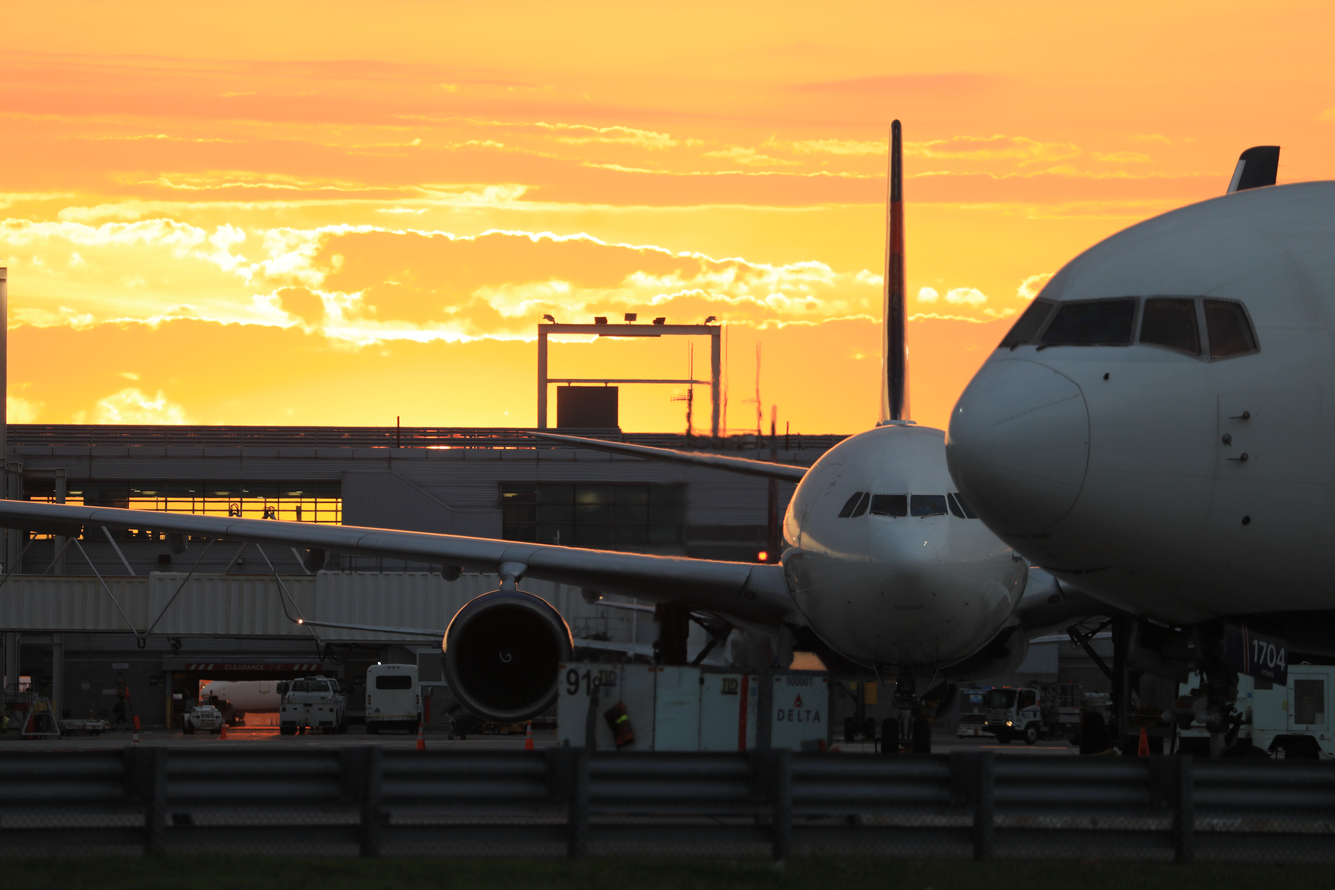
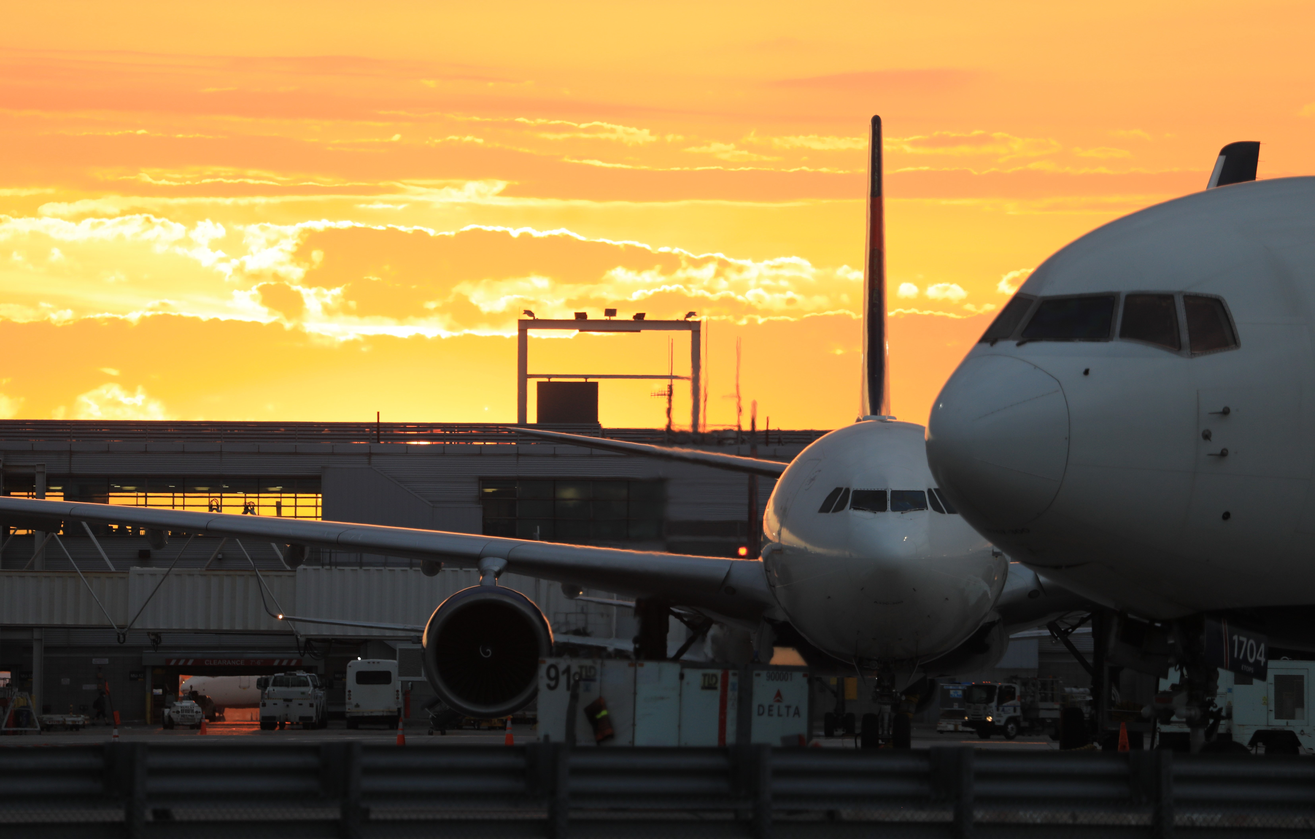
Resized photo

diff --git a/index.html b/index.html
@@ -14,9 +14,9 @@
                margin-bottom: 2em;
                margin-left: 15px;
                background-color: #FAF5E9;
-}
-          
           }
+          
+          
 
           h2 {
                font-family: 'Trebuchet MS', sans-serif;
@@ -37,8 +37,8 @@
           }
 
           .full-bleed-image {
-               width: 50%;
-               height: 400px;
+               width: 60%;
+               height: 500px;
                background-repeat: no-repeat;
                background-position: center;
                background-size: cover;
@@ -54,7 +54,7 @@
           </div>
           <div class='story-body'>
                <h2>Traffic at HEL languishes while at JFK it soars</h2>
-               <p style="font-size: 14px"><em>Traffic at John F. Kennedy or JFK, the largest international airport
+               <p><em>Traffic at John F. Kennedy or JFK, the largest international airport
                          serving the New York City is making a steady recovery. At Helsinki aiport traffic still lags
                          sharply its pre-pandemic. This is chiefly due Russia's invasion in Ukraine, which closed the
                          Russian airspace from European carriers.</em>
